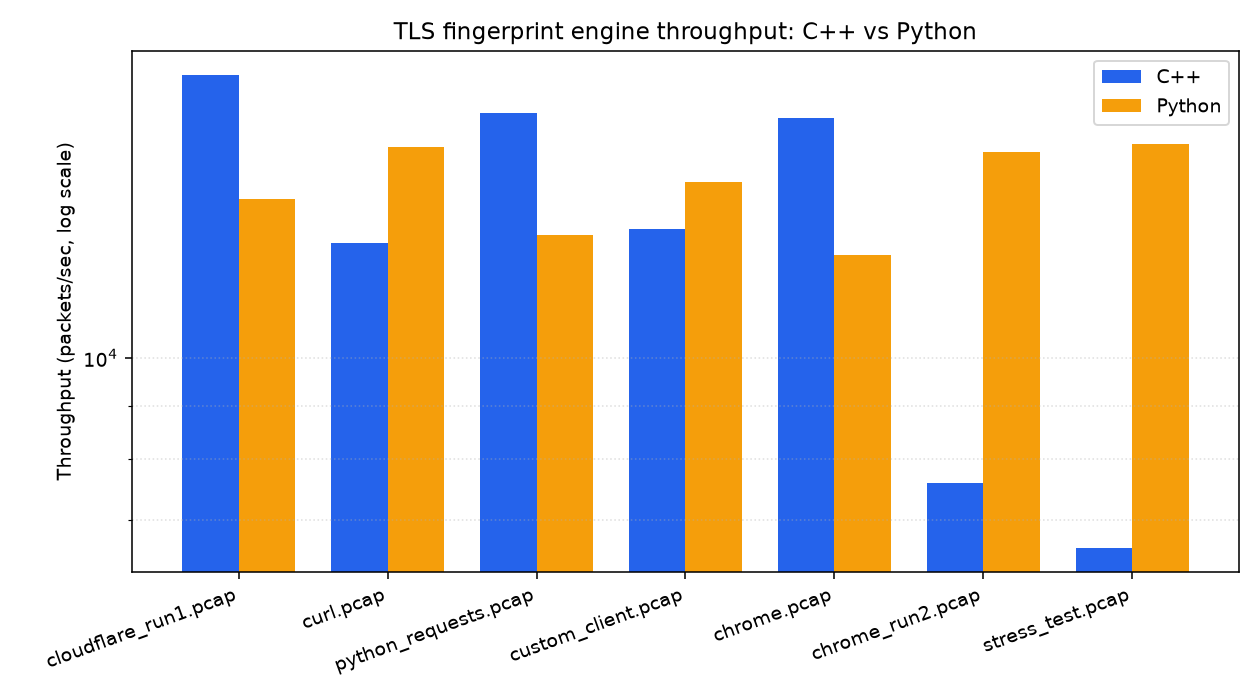
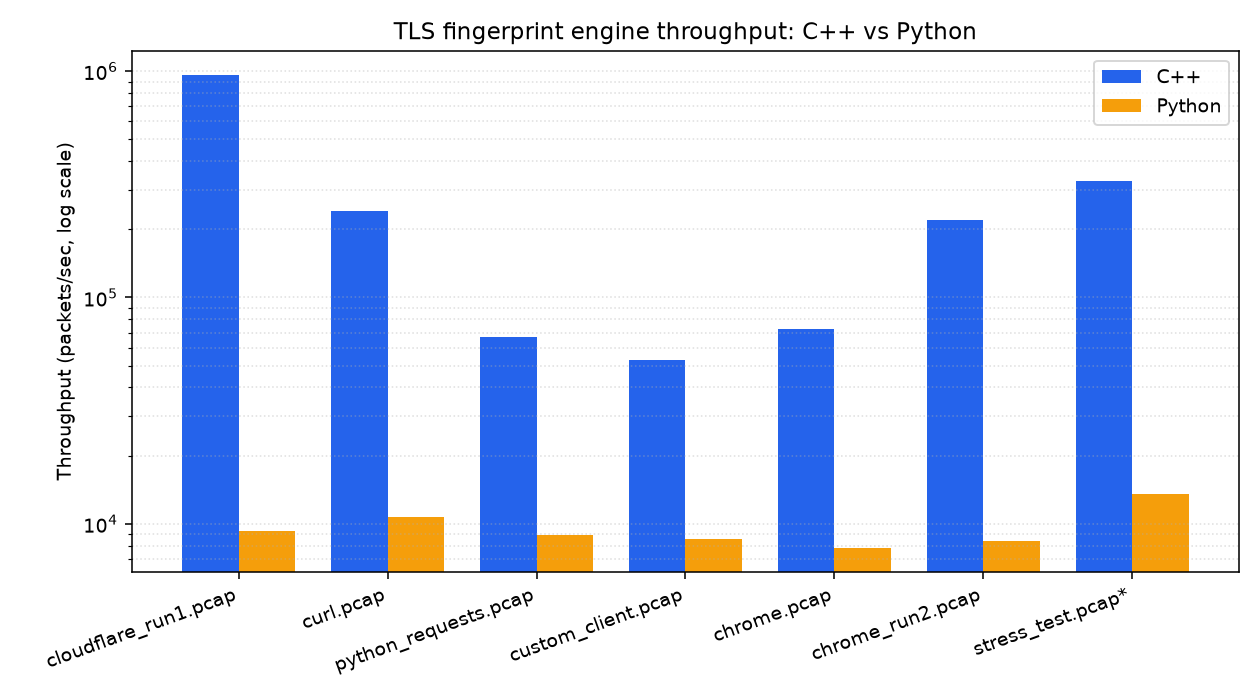
benchmarks corrected and perfect

diff --git a/code/benchmarks/benchmark_compare.py b/code/benchmarks/benchmark_compare.py
@@ -93,17 +93,34 @@ def main():
         raise SystemExit("No matching pcaps between the two result files -- nothing to compare.")
 
     # ---- console table ----
-    hdr = (f"{'pcap':<30}{'C++ pkts':>9}{'Py pkts':>9}{'C++ ms':>9}{'Py ms':>10}"
-        f"{'C++ thru':>11}{'Py thru':>11}{'Speedup':>9}{'Match?':>8}")
+    hdr = (
+        f"{'pcap':<28}"
+        f"{'C++ (CH/SH)':>14}"
+        f"{'Py (CH/SH)':>14}"
+        f"{'C++ ms':>10}"
+        f"{'Py ms':>11}"
+        f"{'C++ thru':>12}"
+        f"{'Py thru':>12}"
+        f"{'Speedup':>9}"
+        f"{'Match?':>8}"
+    )
     print(hdr)
     print("-" * len(hdr))
     for r in rows:
         match_str = "✅" if r["handshakes_match"] else "❌"
+        cpp_handshakes = f"{r['cpp_client_hellos']}/{r['cpp_server_hellos']}"
+        py_handshakes = f"{r['py_client_hellos']}/{r['py_server_hellos']}"
+
         print(
-            f"{r['pcap']:<30}{r['cpp_packets']:>9}{r['py_packets']:>9}"
-            f"{r['cpp_engine_median_ms']:>9.3f}{r['py_engine_median_ms']:>10.3f}"
-            f"{fmt_pps(r['cpp_pkts_per_sec']):>11}{fmt_pps(r['py_pkts_per_sec']):>11}"
-            f"{r['cpp_speedup_x']:>8.1f}x{match_str:>7}"
+            f"{r['pcap']:<28}"
+            f"{cpp_handshakes:>14}"
+            f"{py_handshakes:>14}"
+            f"{r['cpp_engine_median_ms']:>10.3f}"
+            f"{r['py_engine_median_ms']:>11.3f}"
+            f"{fmt_pps(r['cpp_pkts_per_sec']):>12}"
+            f"{fmt_pps(r['py_pkts_per_sec']):>12}"
+            f"{r['cpp_speedup_x']:>8.1f}x"
+            f"{match_str:>7}"
         )
 
     # ---- csv ----
@@ -126,8 +143,6 @@ def main():
             r["pcap"].replace("benchmark/", "") + ("*" if not r["handshakes_match"] else "") 
             for r in plot_rows
         ]
-
-        labels = [r["pcap"].replace("benchmark/", "") for r in plot_rows]
         cpp_thru = [r["cpp_pkts_per_sec"] for r in plot_rows]
         py_thru = [r["py_pkts_per_sec"] for r in plot_rows]
 

diff --git a/code/benchmarks/benchmark_cpp.py b/code/benchmarks/benchmark_cpp.py
@@ -10,7 +10,8 @@ ansi_clean = re.compile(r"\x1B(?:[@-Z\\-_]|\[[0-?]*[ -/]*[@-~])")
 ROOT = Path(__file__).resolve().parents[2]
 
 CPP = ROOT / "code" / "cpp" / "build" / "tlsfp_engine"
-PCAP_DIR = ROOT / "code" / "pcaps"
+# PCAP_DIR = ROOT / "code" / "pcaps"
+PCAP_DIR = Path("/tmp/pcaps")
 RESULTS = ROOT / "code" / "benchmarks" / "results" / "cpp_results.csv"
 
 
